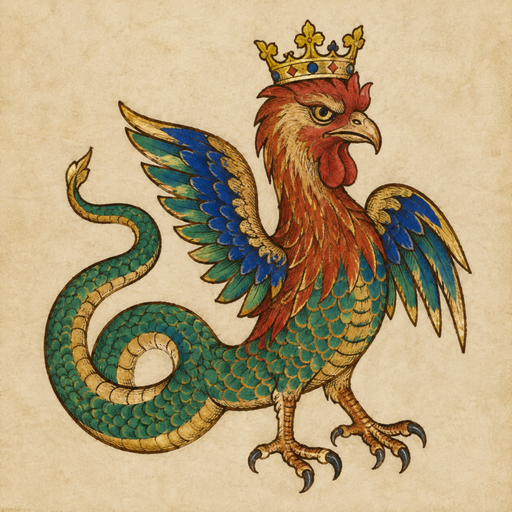
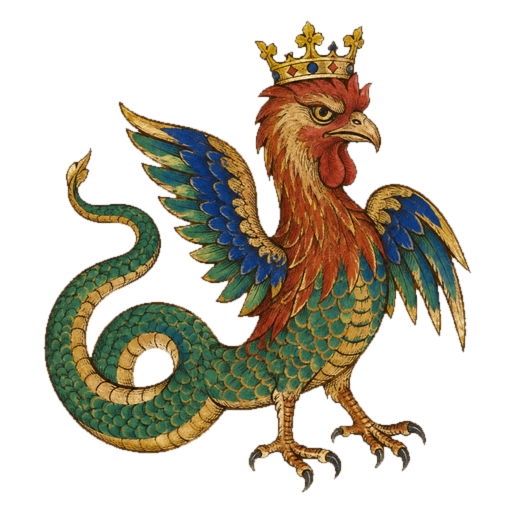
Cut-out pieces: no card behind anything on the board
Founder, Nov 8: cut the images out of the card-like presentation. Stand-in emoji now stand on a small patch of ground, opened squares are a drawn crate or hole, flags are pennants, and the six painted creatures have their parchment removed (originals untouched in Drive Art/Source).

diff --git a/app/src/main/java/com/metavitae/marcohunt/Art.kt b/app/src/main/java/com/metavitae/marcohunt/Art.kt
@@ -33,14 +33,41 @@ object Art {
     fun draw(ctx: Context, c: Canvas, name: String, r: RectF, color: Int, label: String, round: Boolean = false) {
         val bmp = bitmap(ctx, name)
         if (bmp != null) { c.drawBitmap(bmp, null, r, null); return }
-        fill.color = color
-        if (round) { c.drawOval(r, fill); c.drawOval(r, ink) }
-        else { c.drawRoundRect(r, r.width() * 0.18f, r.height() * 0.18f, fill); c.drawRoundRect(r, r.width() * 0.18f, r.height() * 0.18f, ink) }
+        // No card behind a piece (founder, Nov 8): only the cut-out and a small patch of ground in its colour.
+        val w = r.width(); val h = r.height()
         if (label.isNotEmpty()) {
-            val glyphs = label.codePointCount(0, label.length)
-            text.textSize = r.height() * (when { glyphs == 1 && label.codePointAt(0) > 0x2000 -> 0.62f; label.length <= 2 -> 0.5f; else -> 0.28f })
-            c.drawText(label, r.centerX(), r.centerY() - (text.descent() + text.ascent()) / 2, text)
+            fill.color = (color and 0x00FFFFFF) or 0x77000000
+            c.drawOval(RectF(r.left + w * 0.14f, r.bottom - h * 0.16f, r.right - w * 0.14f, r.bottom), fill)
+            text.color = color or 0xFF000000.toInt()   // emoji keep their own colours; plain signs take this one
+            text.textSize = minOf(w, h) * 0.8f
+            text.setShadowLayer(h * 0.03f, 0f, h * 0.015f, 0x99000000.toInt())
+            c.drawText(label, r.centerX(), r.bottom - h * 0.06f - text.descent(), text)
+            text.clearShadowLayer()
+            text.color = INK
+            return
         }
+        if (name == HOLE) {
+            fill.color = color or 0xFF000000.toInt()
+            val o = RectF(r.left + w * 0.08f, r.bottom - h * 0.36f, r.right - w * 0.08f, r.bottom - h * 0.02f)
+            c.drawOval(o, fill); c.drawOval(o, ink)
+            return
+        }
+        // an opened crate, box or trunk
+        fill.color = color or 0xFF000000.toInt()
+        val body = RectF(r.left + w * 0.14f, r.top + h * 0.46f, r.right - w * 0.14f, r.bottom - h * 0.04f)
+        val lid = RectF(r.left + w * 0.10f, r.top + h * 0.28f, r.right - w * 0.10f, r.top + h * 0.46f)
+        c.drawRoundRect(body, w * 0.05f, w * 0.05f, fill); c.drawRoundRect(body, w * 0.05f, w * 0.05f, ink)
+        c.drawRoundRect(lid, w * 0.05f, w * 0.05f, fill); c.drawRoundRect(lid, w * 0.05f, w * 0.05f, ink)
+    }
+
+    /** A pennant flying from the pole at r's left edge, with the traveller's number. */
+    fun pennant(c: Canvas, r: RectF, color: Int, label: String) {
+        val p = android.graphics.Path()
+        p.moveTo(r.left, r.top); p.lineTo(r.right, r.centerY()); p.lineTo(r.left, r.bottom); p.close()
+        fill.color = color or 0xFF000000.toInt()
+        c.drawPath(p, fill); c.drawPath(p, ink)
+        text.textSize = r.height() * 0.52f
+        c.drawText(label, r.left + r.width() * 0.32f, r.centerY() - (text.descent() + text.ascent()) / 2, text)
     }
 
     private val shadow = Paint(Paint.ANTI_ALIAS_FLAG).apply { color = 0x55301A08 }

diff --git a/app/src/main/java/com/metavitae/marcohunt/CameraBoardView.kt b/app/src/main/java/com/metavitae/marcohunt/CameraBoardView.kt
@@ -224,9 +224,7 @@ class CameraBoardView(ctx: Context) : View(ctx), SensorEventListener {
                 if (top != null) {
                     val flagFoot = project(world(tr, tc, 2.1f))
                     if (flagFoot != null) stand(c, flagFoot, top, (focal() * 0.6f / top[2]).coerceIn(dp(46f), dp(200f))) { rect ->
-                        glowFill.color = (colour and 0x00FFFFFF) or 0x66000000
-                        c.drawRoundRect(RectF(rect.left - dp(4f), rect.top - dp(4f), rect.right + dp(4f), rect.bottom + dp(4f)), dp(8f), dp(8f), glowFill)
-                        Art.draw(context, c, "banner_" + Art.CLASS[p.cls.ordinal].removePrefix("class_"), rect, colour, "${p.id}")
+                        Art.pennant(c, RectF(rect.centerX(), rect.top, rect.right + rect.width() * 0.5f, rect.bottom), colour, "${p.id}")
                     }
                     if (p.id == revealedMarco) c.drawText("☀", top[0], top[1] - 10f, hint)
                 }
